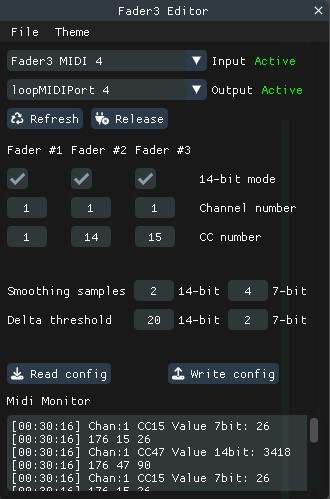
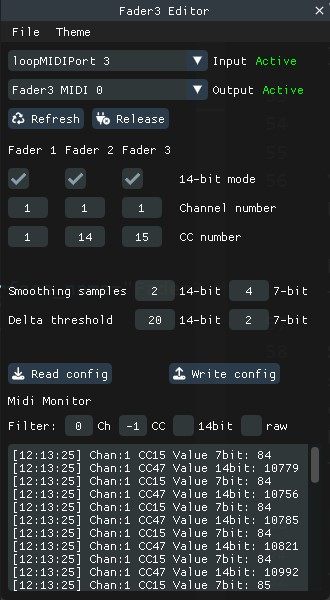
docs

diff --git a/README.md b/README.md
@@ -1,7 +1,7 @@
 # Fader3
  3-fader USB MIDI controller
 
-![photo of Fader3 on a desk](hero_shot.jpg)
+![photo of Fader3 on a desk](f_wide_shot.jpg)
 
 ## Project Spec
 
@@ -30,6 +30,7 @@ However...it appears that none of the above do 14-bit MIDI. So if you really wan
 ## Requirements:
 
 ### Hardware
+![TinkerCAD view of the case design](Case_Parts.jpg)
 * Raspberry Pi Pico
 * Three 100mm-throw B-taper (linear) faders matching [these dimensions](https://www.bourns.com/docs/Product-Datasheets/PTB.pdf)
 * ADS1115 analogue-digital converter board
@@ -42,6 +43,9 @@ However...it appears that none of the above do 14-bit MIDI. So if you really wan
 * Mu editor [via these instructions](https://learn.adafruit.com/getting-started-with-raspberry-pi-pico-circuitpython/installing-mu-editor)
 * OR Visual Studio Code with the [CircuitPython v2 extension](https://marketplace.visualstudio.com/items?itemName=wmerkens.vscode-circuitpython-v2)
 
+### Editor Software
+![Fader3 Editor app](f_editor_screen.jpg)
+* [Windows executable](https://github.com/echolevel/Fader3/releases/tag/v0.1.0) (source available - should be possible to compile for MacOS and Linux)
 
 ## Instructions:
 
@@ -54,8 +58,6 @@ Note that the case has a 0.2mm layer over the top: this is not a mistake. Firstl
 You'll have to cut through the slot and bolt holes. I recommend starting the bolt holes with an awl, then drilling through with a 3mm bit in a pin vice (small unpowered hobby drill), and finishing with a needle file until M3 bolts pass through comfortably. Holding the case up to a light shows where the holes are.
 
 Similar for the slots: use a sharp knife to slowly puncture the end of each slot and drag down carefully. A steel rule will help avoid veering off and cutting into the main body of the case. When they're all cut, a ~2mm emery board or sanding stick should be used in each slot until the fader can fit through and slide up and down unimpeded.
-
-![TinkerCAD view of the case design](Case_Parts.jpg)
 
 The Pi Pico sits in the base, and the micro USB socket should line up nicely with the case top. It's advisable to bolt down the Pico - M2 bolts should be used, with appropriate holes drilled through the base (the pin vice again!). M2*6 bolts with M2 nuts on the underside should work, and won't scrape your desk since you'll be sticking rubber feet on all four corners of the base.
 
@@ -89,16 +91,15 @@ If everything's soldered up properly, then you should now be able to replug the 
 
 ## Config options:
 
-* faderEnabled: set True or False to toggle a fader on or off
 * faderMidiChannel (array): set a MIDI channel for each fader separately
 * faderCCNumber: set a CC number for each fader separately
 * enable14bitmode: set True or False to enable 14-bit MIDI mode on each individual fader
-* faderCustomRange: set custom lower and upper range values and output will be scaled accordingly. In 7-bit mode, the lower value will be clamped between 0 and 126 while the upper value will be clamped between 1 and 127. In 14-bit mode, lower value is clamped between 0 and 16382 and upper value is clamped between 1 and 16383. If the lower value is larger than the upper value, output is effectively inverted.
 * smoothingSamples14bit: if you're experiencing jitter, adjusting this value might help. Higher values mean more smoothing but introduce slightly more lag. The value represents the number of fader readings that are summed and averaged
 * smoothingSamples7bit: as above
 * newValueThreshold14bit: prevent new MIDI messages from being sent unless this threshold is exceeded by a new value above or below the previous value; this can reduce jitter and compensate for interference. Remember, if you use a custom range scaling significantly less than default, you'll probably need to reduce this value or else you'll see extremely low resolution: e.g. a custom range of 0-255 in 14-bit mode and a threshold of 20 will jump the value in increments of ~10 with no interpolation. Reducing the threshold to 1 in this instance would solve the problem.
 * newValueThreshold7bit: as above, but is way lower by default since you can't afford to lose too much resolution in 7-bit mode
-* enableDebugMode: when true, debug log output is printed to the serial monitor and can be viewed in Mu or VS Code
+
+The Fader3 Editor app is currently only compiled for Windows, but the code is hopefully portable enough that it can be compiled for MacOS and Linux without too much hassle. It uses glfw, RtMidi and Dear ImGui. When the correct MIDI ports are selected, it can read values from the hardware by sending a dump request as a sysex message. That syncs the Editor with the hardware; then once you've made adjustments in the Editor, you can write the updates back to the hardware. It also has a MIDI monitor with some handy filters for troubleshooting purposes.
 
 
 ## Notes:
@@ -140,11 +141,9 @@ I have three techniques for dealing with this:
 ## Changes / To Do:
 
 ### To do
-* Rotate case before exporting STL
-* Redesign base for ADS1115
-* Implement the sysex config
 * Consider a startup mode to force mass storage - maybe all faders to max when plugging in? 
 
 ### Changes
+* 2024-01-10 Editor app
 * 2024-01-04 14-bit support
 * 2024-01-01 Initial commit
